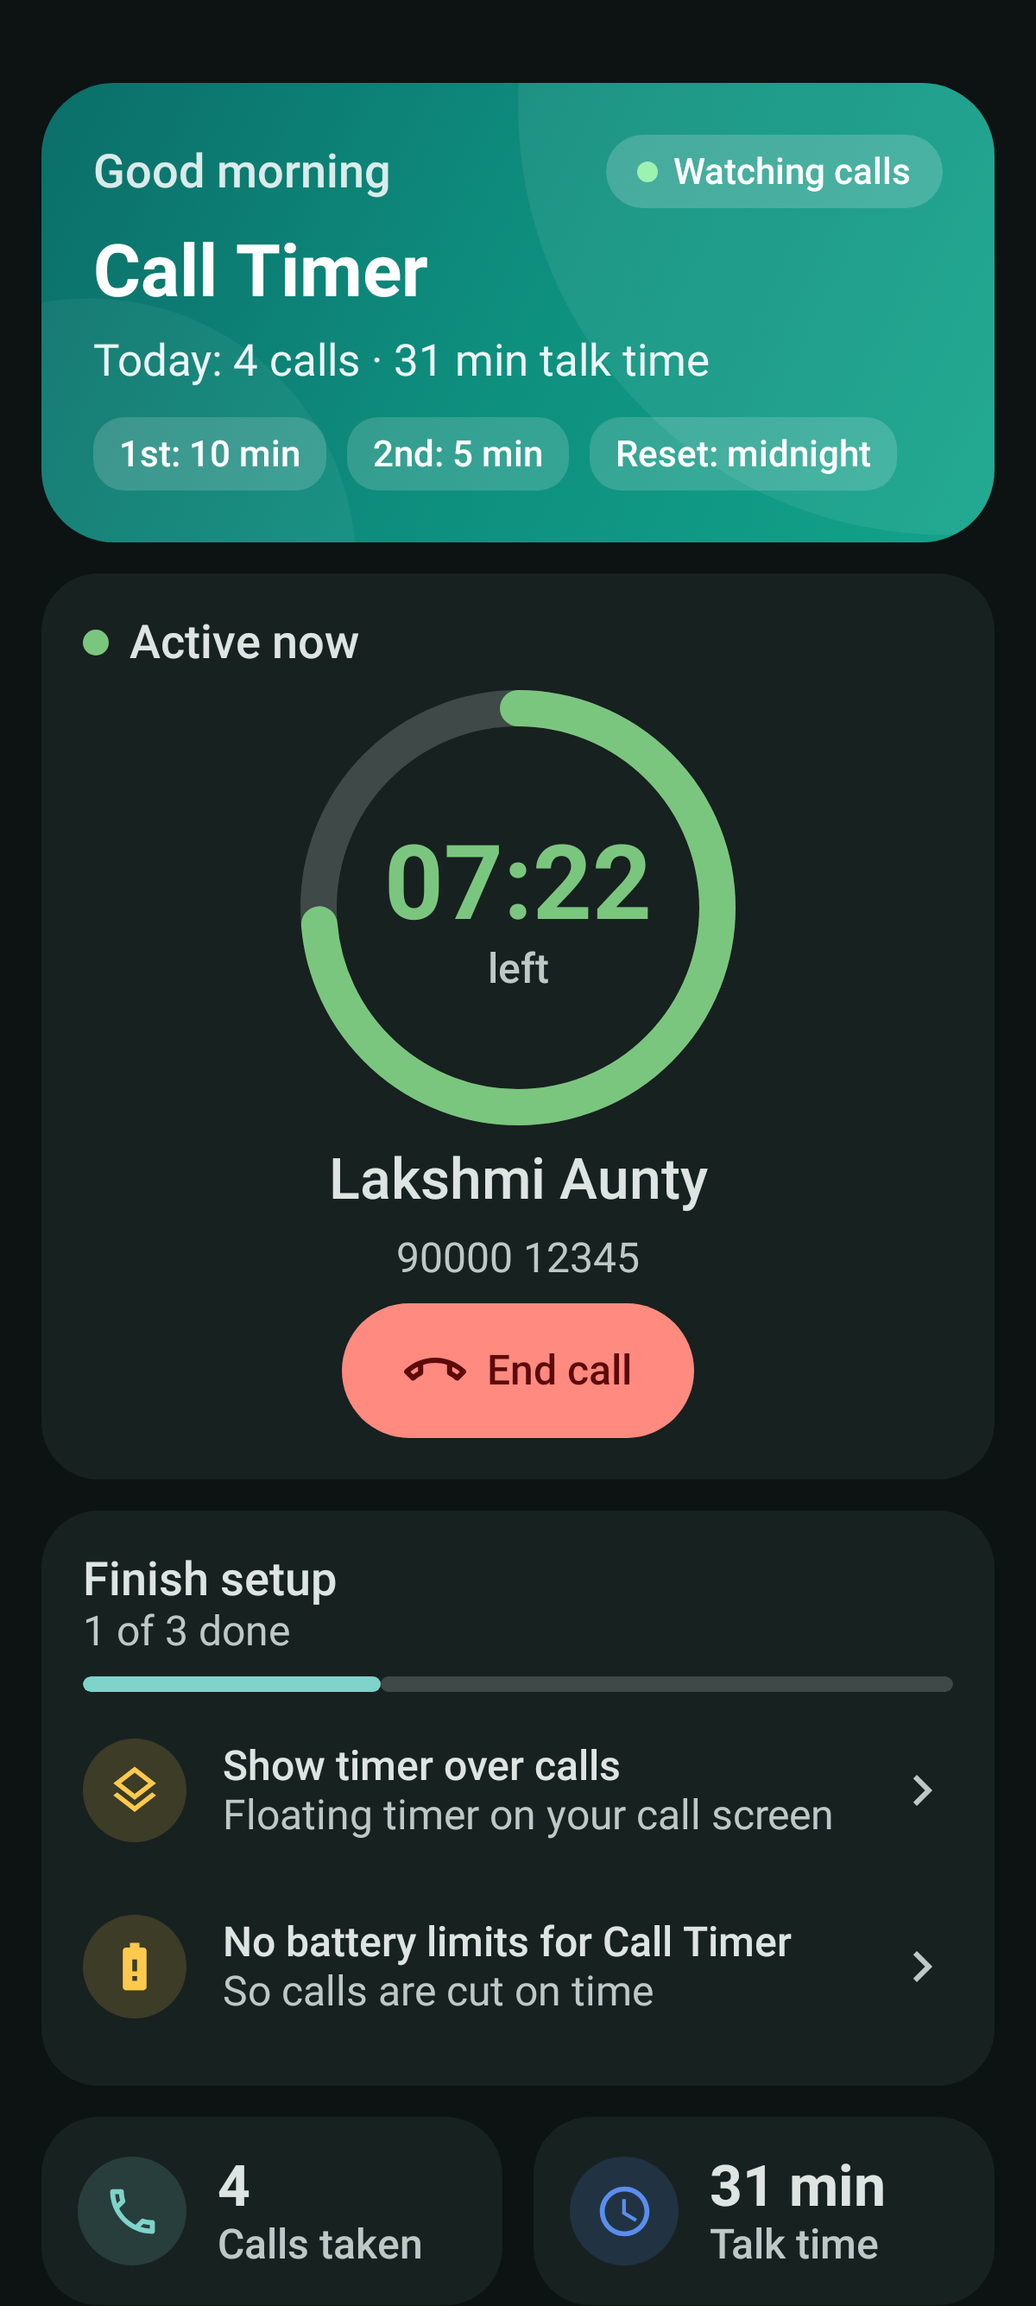
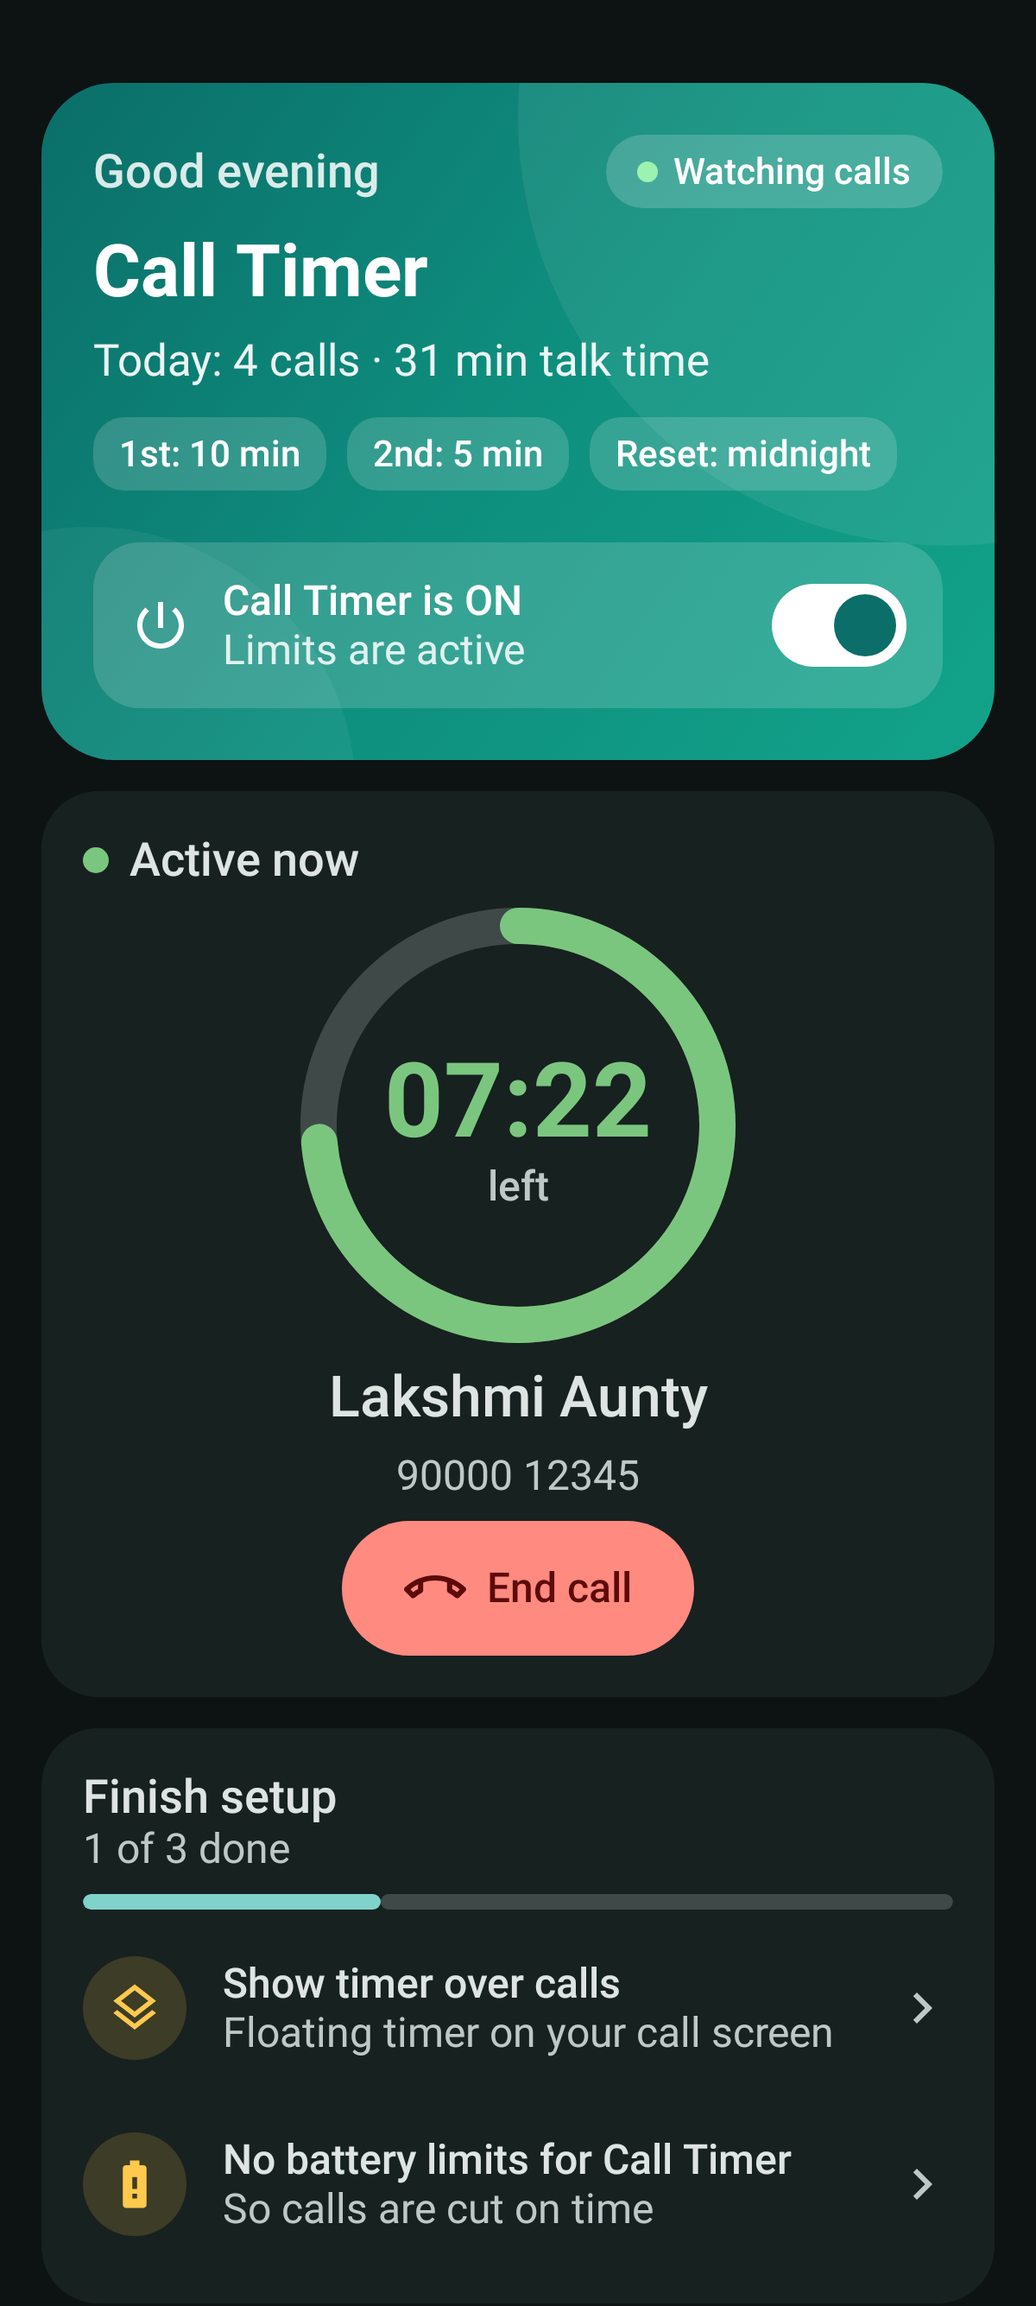
Add a main On/Off switch
- Home header and Settings show "Call Timer is ON/OFF" with a switch;
  turning off asks once for confirmation
- Off stops timing, blocking, warnings and the background watcher;
  call screening allows every call; boot and phone-state receivers
  stay quiet until it is turned on again
- A call in progress when switched off continues without a limit

Claude-Session: https://claude.ai/code/session_01UcbdxHMmm35UgftP4fjSPE

diff --git a/app/src/main/java/com/callgalli/ui/components/PowerSwitch.kt b/app/src/main/java/com/callgalli/ui/components/PowerSwitch.kt
@@ -1,0 +1,92 @@
+package com.callgalli.ui.components
+
+import androidx.compose.foundation.layout.Arrangement
+import androidx.compose.foundation.layout.Column
+import androidx.compose.foundation.layout.Row
+import androidx.compose.foundation.layout.fillMaxWidth
+import androidx.compose.foundation.layout.heightIn
+import androidx.compose.foundation.layout.padding
+import androidx.compose.foundation.shape.RoundedCornerShape
+import androidx.compose.material.icons.Icons
+import androidx.compose.material.icons.outlined.PowerSettingsNew
+import androidx.compose.material3.Icon
+import androidx.compose.material3.MaterialTheme
+import androidx.compose.material3.Surface
+import androidx.compose.material3.Switch
+import androidx.compose.material3.SwitchDefaults
+import androidx.compose.material3.Text
+import androidx.compose.runtime.Composable
+import androidx.compose.runtime.getValue
+import androidx.compose.runtime.mutableStateOf
+import androidx.compose.runtime.remember
+import androidx.compose.runtime.setValue
+import androidx.compose.ui.Alignment
+import androidx.compose.ui.Modifier
+import androidx.compose.ui.graphics.Color
+import androidx.compose.ui.res.stringResource
+import androidx.compose.ui.semantics.Role
+import androidx.compose.foundation.selection.toggleable
+import androidx.compose.ui.text.font.FontWeight
+import androidx.compose.ui.unit.dp
+import com.callgalli.R
+
+/**
+ * Main On/Off switch. Turning it OFF asks once for confirmation, because the limits are
+ * there to help the user; turning it ON is instant.
+ */
+@Composable
+fun PowerSwitch(enabled: Boolean, onSet: (Boolean) -> Unit, onHero: Boolean = false) {
+    var confirmOff by remember { mutableStateOf(false) }
+    val request: (Boolean) -> Unit = { on -> if (on) onSet(true) else confirmOff = true }
+    val fg = if (onHero) Color.White else MaterialTheme.colorScheme.onSurface
+    val sub = if (onHero) Color.White.copy(alpha = 0.85f) else MaterialTheme.colorScheme.onSurfaceVariant
+
+    Surface(
+        color = if (onHero) Color.White.copy(alpha = 0.16f) else MaterialTheme.colorScheme.surfaceContainer,
+        shape = RoundedCornerShape(18.dp),
+        modifier = Modifier.fillMaxWidth(),
+    ) {
+        Row(
+            Modifier
+                .toggleable(value = enabled, role = Role.Switch, onValueChange = request)
+                .heightIn(min = 64.dp)
+                .padding(horizontal = 14.dp, vertical = 10.dp),
+            verticalAlignment = Alignment.CenterVertically,
+            horizontalArrangement = Arrangement.spacedBy(12.dp),
+        ) {
+            Icon(Icons.Outlined.PowerSettingsNew, contentDescription = null, tint = fg)
+            Column(Modifier.weight(1f)) {
+                Text(
+                    stringResource(if (enabled) R.string.power_on_title else R.string.power_off_title),
+                    style = MaterialTheme.typography.titleSmall.copy(fontWeight = FontWeight.SemiBold), color = fg,
+                )
+                Text(
+                    stringResource(if (enabled) R.string.power_on_sub else R.string.power_off_sub),
+                    style = MaterialTheme.typography.bodyMedium, color = sub,
+                )
+            }
+            Switch(
+                checked = enabled,
+                onCheckedChange = null, // the whole row toggles
+                colors = if (onHero) SwitchDefaults.colors(
+                    checkedThumbColor = Color(0xFF0B6E69),
+                    checkedTrackColor = Color.White,
+                    uncheckedThumbColor = Color.White,
+                    uncheckedTrackColor = Color.White.copy(alpha = 0.25f),
+                    uncheckedBorderColor = Color.White.copy(alpha = 0.7f),
+                ) else SwitchDefaults.colors(),
+            )
+        }
+    }
+
+    if (confirmOff) {
+        ConfirmDialog(
+            title = stringResource(R.string.power_confirm_title),
+            message = stringResource(R.string.power_confirm_body),
+            confirmText = stringResource(R.string.power_confirm_action),
+            onConfirm = { onSet(false) },
+            onDismiss = { confirmOff = false },
+            danger = true,
+        )
+    }
+}

diff --git a/app/src/main/java/com/callgalli/ui/home/HomeScreen.kt b/app/src/main/java/com/callgalli/ui/home/HomeScreen.kt
@@ -75,6 +75,7 @@ import com.callgalli.ui.components.Avatar
 import com.callgalli.ui.components.CountdownRing
 import com.callgalli.ui.components.HeroCard
 import com.callgalli.ui.components.ListRow
+import com.callgalli.ui.components.PowerSwitch
 import com.callgalli.ui.components.SectionTitle
 import com.callgalli.ui.components.SoftCard
 import com.callgalli.ui.components.StatCard
@@ -144,6 +145,7 @@ fun HomeScreen(
         steps = steps,
         canEndCall = remember(refresh) { CallEnder.canEnd(context) },
         onHangUp = vm::hangUp,
+        onSetEnabled = vm::setEnabled,
         onOpenNumber = onOpenNumber,
     )
 }
@@ -159,6 +161,7 @@ fun HomeContent(
     steps: List<SetupStep>,
     canEndCall: Boolean,
     onHangUp: () -> Unit,
+    onSetEnabled: (Boolean) -> Unit,
     onOpenNumber: (String) -> Unit,
 ) {
     val colors = LocalStatusColors.current
@@ -171,11 +174,12 @@ fun HomeContent(
         ),
         verticalArrangement = Arrangement.spacedBy(12.dp),
     ) {
-        item { Hero(summary, settings, ready) }
+        item { Hero(summary, settings, ready, onSetEnabled) }
 
-        inCall.call?.let { call -> item { ActiveCallCard(call, inCall, canEndCall, onHangUp) } }
-
-        if (steps.any { !it.done }) item { SetupChecklist(steps) }
+        if (settings.enabled) {
+            inCall.call?.let { call -> item { ActiveCallCard(call, inCall, canEndCall, onHangUp) } }
+            if (steps.any { !it.done }) item { SetupChecklist(steps) }
+        }
 
         item {
             Column(verticalArrangement = Arrangement.spacedBy(12.dp)) {
@@ -211,21 +215,22 @@ fun HomeContent(
 }
 
 @Composable
-private fun Hero(summary: TodaySummary, settings: AppSettings, ready: Boolean) {
+private fun Hero(summary: TodaySummary, settings: AppSettings, ready: Boolean, onSetEnabled: (Boolean) -> Unit) {
+    val on = settings.enabled
     val greeting = when (Calendar.getInstance().get(Calendar.HOUR_OF_DAY)) {
         in 5..11 -> R.string.greeting_morning
         in 12..16 -> R.string.greeting_afternoon
         else -> R.string.greeting_evening
     }
-    HeroCard {
+    HeroCard(muted = !on) {
         Row(verticalAlignment = Alignment.CenterVertically) {
             Text(stringResource(greeting), style = MaterialTheme.typography.titleMedium, color = Color.White.copy(alpha = 0.85f), modifier = Modifier.weight(1f))
             Surface(color = Color.White.copy(alpha = 0.18f), shape = RoundedCornerShape(50)) {
                 Row(Modifier.padding(horizontal = 12.dp, vertical = 6.dp), verticalAlignment = Alignment.CenterVertically) {
-                    Box(Modifier.size(8.dp).clip(CircleShape).background(if (ready) Color(0xFF9CF2B0) else Color(0xFFFFD36E)))
+                    Box(Modifier.size(8.dp).clip(CircleShape).background(if (!on) Color(0xFFBFC8C6) else if (ready) Color(0xFF9CF2B0) else Color(0xFFFFD36E)))
                     Spacer(Modifier.width(6.dp))
                     Text(
-                        stringResource(if (ready) R.string.hero_watching else R.string.hero_setup_needed),
+                        stringResource(if (!on) R.string.hero_off else if (ready) R.string.hero_watching else R.string.hero_setup_needed),
                         style = MaterialTheme.typography.labelMedium, color = Color.White,
                     )
                 }
@@ -241,6 +246,8 @@ private fun Hero(summary: TodaySummary, settings: AppSettings, ready: Boolean) {
             HeroChip(stringResource(R.string.hero_rule_repeat, settings.rules.repeatCallMinutes))
             HeroChip(stringResource(R.string.hero_rule_reset, resetLabel(settings.rules.resetMinuteOfDay)))
         }
+        Spacer(Modifier.size(4.dp))
+        PowerSwitch(on, onSetEnabled, onHero = true)
     }
 }
 

diff --git a/app/src/main/java/com/callgalli/telecom/CallMonitor.kt b/app/src/main/java/com/callgalli/telecom/CallMonitor.kt
@@ -119,7 +119,7 @@ class CallMonitor(
 
     /** NEW_OUTGOING_CALL: the number the user just dialled in their phone app. */
     fun onOutgoingNumber(raw: String?) {
-        if (raw.isNullOrBlank()) return
+        if (raw.isNullOrBlank() || !settings.current.enabled) return
         outgoingRaw = raw
         outgoingAt = System.currentTimeMillis()
     }
@@ -132,6 +132,7 @@ class CallMonitor(
     /** PHONE_STATE broadcast. It can arrive twice per change (with and without the number). */
     fun onPhoneState(newState: String?, incomingRaw: String?) {
         newState ?: return
+        if (!settings.current.enabled) return
         val previous = phoneState
         phoneState = newState
         when (newState) {
@@ -177,6 +178,16 @@ class CallMonitor(
         }
         outgoingRaw = null
         startCall(Active(PhoneNumbers.normalize(raw), raw, direction))
+    }
+
+    /**
+     * Switched off: stop everything now. A call in progress is NOT ended; it is just no
+     * longer timed (its talk time so far is saved).
+     */
+    fun stopAll() {
+        phoneState = TelephonyManager.EXTRA_STATE_IDLE
+        outgoingRaw = null
+        onIdle()
     }
 
     private fun onIdle() {
@@ -245,7 +256,7 @@ class CallMonitor(
         if (initialised) return
         initialised = true
         scope.launch {
-            if (isInCall()) {
+            if (settings.current.enabled && isInCall()) {
                 val saved = repository.findLatestOpenConnectedSession()
                 if (saved != null && active == null) {
                     phoneState = TelephonyManager.EXTRA_STATE_OFFHOOK

diff --git a/app/src/main/java/com/callgalli/data/SettingsStore.kt b/app/src/main/java/com/callgalli/data/SettingsStore.kt
@@ -12,6 +12,8 @@ data class AppSettings(
     val rules: RuleSettings = RuleSettings(),
     val theme: ThemeMode = ThemeMode.SYSTEM,
     val onboardingDone: Boolean = false,
+    /** Main On/Off switch. Off = no timing, no blocking, no background watcher. */
+    val enabled: Boolean = true,
 )
 
 /**
@@ -36,7 +38,7 @@ class SettingsStore(context: Context) {
             )
         }.getOrDefault(defaults)
         val theme = runCatching { ThemeMode.valueOf(prefs.getString(KEY_THEME, null) ?: "") }.getOrDefault(ThemeMode.SYSTEM)
-        return AppSettings(rules, theme, prefs.getBoolean(KEY_ONBOARDED, false))
+        return AppSettings(rules, theme, prefs.getBoolean(KEY_ONBOARDED, false), prefs.getBoolean(KEY_ENABLED, true))
     }
 
     fun updateRules(transform: (RuleSettings) -> RuleSettings) {
@@ -49,6 +51,11 @@ class SettingsStore(context: Context) {
             .putInt(KEY_WARN2, next.secondWarningSeconds)
             .apply()
         _settings.value = current.copy(rules = next)
+    }
+
+    fun setEnabled(enabled: Boolean) {
+        prefs.edit().putBoolean(KEY_ENABLED, enabled).apply()
+        _settings.value = current.copy(enabled = enabled)
     }
 
     fun setTheme(theme: ThemeMode) {
@@ -75,5 +82,6 @@ class SettingsStore(context: Context) {
         const val KEY_WARN2 = "second_warning_seconds"
         const val KEY_THEME = "theme"
         const val KEY_ONBOARDED = "onboarding_done"
+        const val KEY_ENABLED = "timer_enabled"
     }
 }

diff --git a/app/src/main/java/com/callgalli/telecom/CallMonitorService.kt b/app/src/main/java/com/callgalli/telecom/CallMonitorService.kt
@@ -49,6 +49,13 @@ class CallMonitorService : Service() {
             stopSelf()
             return START_NOT_STICKY
         }
+        if (!c.settings.current.enabled) {
+            // Switched off between the start request and now: Android still needs startForeground
+            // above, then we leave straight away.
+            ServiceCompat.stopForeground(this, ServiceCompat.STOP_FOREGROUND_REMOVE)
+            stopSelf()
+            return START_NOT_STICKY
+        }
         if (!started) {
             started = true
             c.callMonitor.overlay = TimerOverlay(applicationContext)
@@ -96,6 +103,7 @@ class CallMonitorService : Service() {
 
         /** Shared by the service's receiver and the manifest receiver (whichever Android delivers). */
         fun dispatchPhoneIntent(context: Context, intent: Intent) {
+            if (!context.container.settings.current.enabled) return
             val monitor = context.container.callMonitor
             when (intent.action) {
                 TelephonyManager.ACTION_PHONE_STATE_CHANGED -> {

diff --git a/app/src/main/java/com/callgalli/CallGalliApp.kt b/app/src/main/java/com/callgalli/CallGalliApp.kt
@@ -8,6 +8,8 @@ import com.callgalli.data.ContactsRepository
 import com.callgalli.data.SettingsStore
 import com.callgalli.telecom.CallNotifications
 import com.callgalli.telecom.CallMonitor
+import com.callgalli.telecom.CallMonitorService
+import android.content.Intent
 import kotlinx.coroutines.CoroutineScope
 import kotlinx.coroutines.Dispatchers
 import kotlinx.coroutines.SupervisorJob
@@ -21,6 +23,18 @@ class AppContainer(context: Context) {
     val contacts = ContactsRepository(context)
     val notifications = CallNotifications(context)
     val callMonitor = CallMonitor(context, repository, contacts, settings, notifications)
+    private val app = context.applicationContext
+
+    /** The main On/Off switch. */
+    fun setTimerEnabled(on: Boolean) {
+        settings.setEnabled(on)
+        if (on) {
+            CallMonitorService.start(app)
+        } else {
+            callMonitor.stopAll()
+            app.stopService(Intent(app, CallMonitorService::class.java))
+        }
+    }
 }
 
 class CallGalliApp : Application() {

diff --git a/app/src/test/java/com/callgalli/ui/ScreenshotTest.kt b/app/src/test/java/com/callgalli/ui/ScreenshotTest.kt
@@ -78,20 +78,22 @@ class ScreenshotTest {
     )
 
     @Composable
-    private fun Home(call: InCallState) = HomeContent(
+    private fun Home(call: InCallState, enabled: Boolean = true) = HomeContent(
         contentPadding = pad,
         summary = TodaySummary(callsTaken = 4, talkMillis = 31 * 60_000L, callsBlocked = 3, minutesSaved = 15),
         numbers = numbers,
         inCall = call,
-        settings = AppSettings(),
+        settings = AppSettings(enabled = enabled),
         steps = steps,
         canEndCall = true,
         onHangUp = {},
+        onSetEnabled = {},
         onOpenNumber = {},
     )
 
     @Test fun homeDark() = shot("home_dark", true) { Home(InCallState()) }
     @Test fun homeLight() = shot("home_light", false) { Home(InCallState()) }
+    @Test fun homeOff() = shot("home_off_light", false) { Home(InCallState(), enabled = false) }
     @Test fun homeActiveCall() = shot("home_active_call_dark", true) { Home(activeCall) }
 
     @Test fun blockedLog() {

diff --git a/app/src/main/java/com/callgalli/telecom/Receivers.kt b/app/src/main/java/com/callgalli/telecom/Receivers.kt
@@ -23,6 +23,7 @@ class CallActionReceiver : BroadcastReceiver() {
  */
 class PhoneEventReceiver : BroadcastReceiver() {
     override fun onReceive(context: Context, intent: Intent) {
+        if (!context.container.settings.current.enabled) return // switched off
         CallMonitorService.dispatchPhoneIntent(context, intent)
         CallMonitorService.start(context)
     }
@@ -32,6 +33,7 @@ class PhoneEventReceiver : BroadcastReceiver() {
 class BootReceiver : BroadcastReceiver() {
     override fun onReceive(context: Context, intent: Intent) {
         if (intent.action != Intent.ACTION_BOOT_COMPLETED && intent.action != Intent.ACTION_MY_PACKAGE_REPLACED) return
-        if (context.container.settings.current.onboardingDone) CallMonitorService.start(context)
+        val s = context.container.settings.current
+        if (s.onboardingDone && s.enabled) CallMonitorService.start(context)
     }
 }

diff --git a/app/src/main/java/com/callgalli/ui/ViewModels.kt b/app/src/main/java/com/callgalli/ui/ViewModels.kt
@@ -43,6 +43,7 @@ class HomeViewModel(private val c: AppContainer) : ViewModel() {
     val numbers: StateFlow<List<NumberToday>> = c.repository.numbersToday.state(this, emptyList())
     val inCall: StateFlow<InCallState> = c.callMonitor.state
     fun hangUp() = c.callMonitor.hangUp()
+    fun setEnabled(on: Boolean) = c.setTimerEnabled(on)
     val settings = c.settings.settings
 }
 
@@ -116,4 +117,5 @@ class SettingsViewModel(private val c: AppContainer) : ViewModel() {
     fun updateRules(transform: (RuleSettings) -> RuleSettings) = c.settings.updateRules(transform)
     fun setTheme(mode: com.callgalli.data.ThemeMode) = c.settings.setTheme(mode)
     fun clearAll() = viewModelScope.launch { c.repository.clearAllData() }
+    fun setEnabled(on: Boolean) = c.setTimerEnabled(on)
 }

diff --git a/app/src/main/java/com/callgalli/ui/settings/SettingsScreen.kt b/app/src/main/java/com/callgalli/ui/settings/SettingsScreen.kt
@@ -69,6 +69,7 @@ import com.callgalli.ui.AppViewModelFactory
 import com.callgalli.ui.SettingsViewModel
 import com.callgalli.ui.components.BigButton
 import com.callgalli.ui.components.ConfirmDialog
+import com.callgalli.ui.components.PowerSwitch
 import com.callgalli.ui.components.SectionCard
 import com.callgalli.ui.components.resetLabel
 import com.callgalli.ui.theme.LocalStatusColors
@@ -114,6 +115,7 @@ fun SettingsScreen(
         ),
         verticalArrangement = Arrangement.spacedBy(Spacing.m),
     ) {
+        item { PowerSwitch(settings.enabled, vm::setEnabled) }
         item {
             SectionCard(title = stringResource(R.string.settings_limits), icon = Icons.Outlined.Timer) {
                 Stepper(

diff --git a/app/src/main/java/com/callgalli/ui/components/DesignKit.kt b/app/src/main/java/com/callgalli/ui/components/DesignKit.kt
@@ -47,8 +47,9 @@ import com.callgalli.ui.theme.Spacing
 
 /** Teal gradient header used at the top of Home and onboarding. */
 @Composable
-fun HeroCard(modifier: Modifier = Modifier, content: @Composable ColumnScope.() -> Unit) {
-    val gradient = Brush.linearGradient(listOf(Color(0xFF0B6E69), Color(0xFF0E8F7E), Color(0xFF12A38A)))
+fun HeroCard(modifier: Modifier = Modifier, muted: Boolean = false, content: @Composable ColumnScope.() -> Unit) {
+    val gradient = if (muted) Brush.linearGradient(listOf(Color(0xFF3E4A49), Color(0xFF55615F), Color(0xFF66716F)))
+    else Brush.linearGradient(listOf(Color(0xFF0B6E69), Color(0xFF0E8F7E), Color(0xFF12A38A)))
     Box(
         modifier
             .fillMaxWidth()

diff --git a/app/src/main/java/com/callgalli/telecom/CallGalliScreeningService.kt b/app/src/main/java/com/callgalli/telecom/CallGalliScreeningService.kt
@@ -23,6 +23,10 @@ class CallGalliScreeningService : CallScreeningService() {
         val c = container
         val raw = callDetails.handle?.schemeSpecificPart
         val number = PhoneNumbers.normalize(raw)
+        if (!c.settings.current.enabled) {
+            respondToCall(callDetails, allow()) // switched off: never block
+            return
+        }
         if (callDetails.callDirection != Call.Details.DIRECTION_INCOMING) {
             // Outgoing: never blocked here, but it tells the watcher which number was dialled.
             c.callMonitor.onOutgoingNumber(raw)
